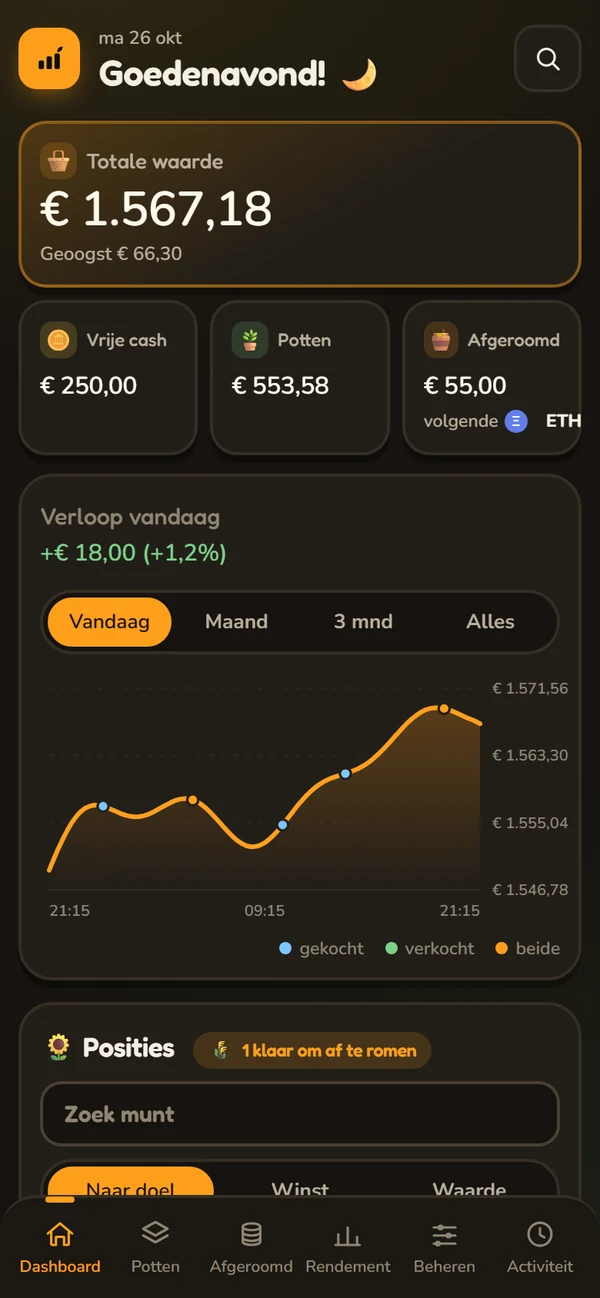
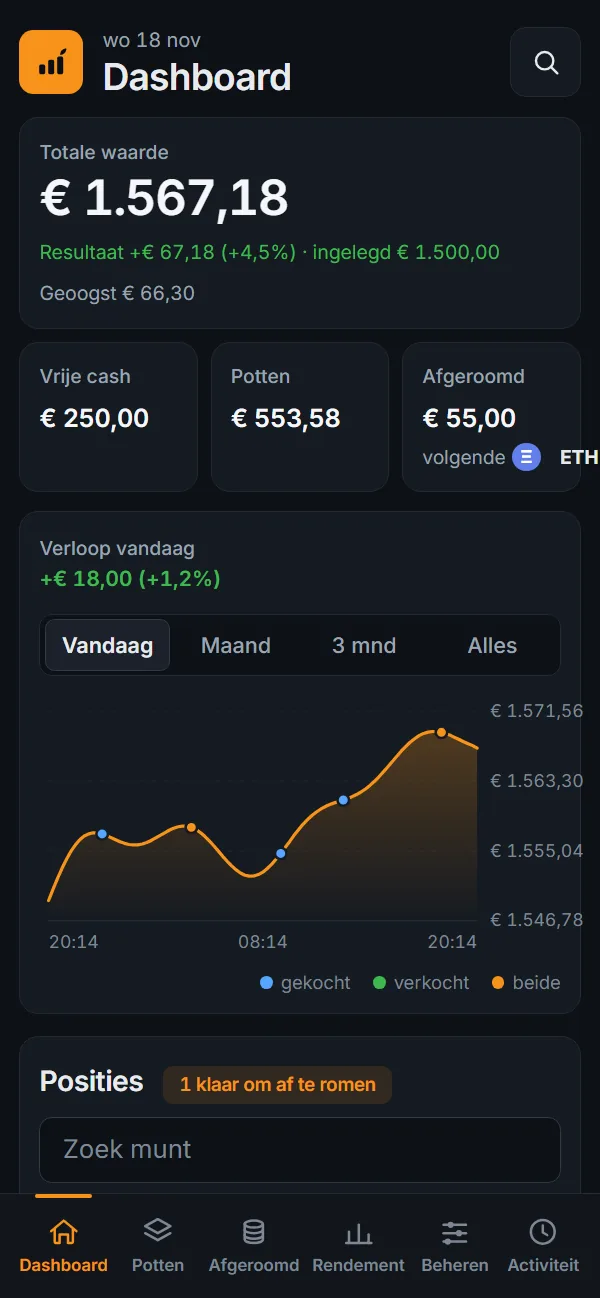
Site: zakelijke stijl zoals het dashboard (Inter, effen vlakken, één accentkleur), nieuwe schermafbeeldingen uit de demo

diff --git a/docs/index.html b/docs/index.html
@@ -6,8 +6,8 @@
 <meta name="color-scheme" content="dark light">
 <title>Profit Harvester: gratis Bitvavo-bot die alleen je winst oogst</title>
 <meta name="description" content="Gratis, open-source tradingbot voor Bitvavo. Laat je munten staan en verkoopt automatisch alleen de winst. Met dashboard, Telegram, demo-modus en een reserve die je zelf verdeelt over BTC, ETH, BNB, SOL en XRP.">
-<meta name="theme-color" content="#16130F" media="(prefers-color-scheme: dark)">
-<meta name="theme-color" content="#FFF7E8" media="(prefers-color-scheme: light)">
+<meta name="theme-color" content="#0E1116" media="(prefers-color-scheme: dark)">
+<meta name="theme-color" content="#F5F6F8" media="(prefers-color-scheme: light)">
 <link rel="icon" href="img/favicon.svg" type="image/svg+xml">
 <link rel="icon" href="img/icon-192.png" sizes="192x192">
 <link rel="apple-touch-icon" href="img/icon-180.png">
@@ -22,68 +22,70 @@
 </script>
 <link rel="preconnect" href="https://fonts.googleapis.com">
 <link rel="preconnect" href="https://fonts.gstatic.com" crossorigin>
-<link href="https://fonts.googleapis.com/css2?family=Fredoka:wght@500;600&family=Nunito:wght@400;600;700;800&display=swap" rel="stylesheet">
+<link href="https://fonts.googleapis.com/css2?family=Inter:wght@400;500;600;700&display=swap" rel="stylesheet">
 <style>
-/* Moestuin: dezelfde kleuren en letters als het dashboard van de bot. */
+/* Zakelijk: dezelfde kleuren en letters als het dashboard van de bot. */
 :root {
-  --grond:     #16130F;   /* potgrond: achtergrond */
-  --vak:       #221E18;   /* vlakken */
-  --vak2:      #2C271F;
-  --rand:      #352E25;
-  --rand2:     #4A4033;
-  --tekst:     #F5EFE4;
-  --zacht:     #B9AE9C;
-  --stil:      #8F8574;
-  --zon:       #FF9F1C;   /* accent */
-  --zon-zacht: rgba(255,159,28,.15);
-  --blad:      #7BD389;   /* plus, groei */
-  --blad-zacht: rgba(123,211,137,.15);
-  --bes:       #FF8A80;   /* min, risico */
-  --lucht:     #7CC6FE;
-  --plank:     #8A5A32;   /* hout van de bakken */
-  --plank-licht: #A87444;
-  --op-zon:    #1E1405;   /* tekst op oranje */
-  --kop:       'Fredoka', 'Nunito', system-ui, sans-serif;
-  --romp:      'Nunito', system-ui, -apple-system, sans-serif;
+  --grond:     #0E1116;
+  --vak:       #151A21;
+  --vak2:      #1B2129;
+  --rand:      #232A33;
+  --rand2:     #303945;
+  --tekst:     #E7EAEE;
+  --zacht:     #9AA4B1;
+  --stil:      #7D8794;
+  --zon:       #F7931A;
+  --zon-zacht: rgba(247,147,26,.12);
+  --blad:      #3FB950;
+  --blad-zacht: rgba(63,185,80,.12);
+  --bes:       #F0706A;
+  --lucht:     #58A6FF;
+  --plank:     #303945;
+  --plank-licht: #303945;
+  --op-zon:    #14100A;
+  --kop:       'Inter', system-ui, -apple-system, 'Segoe UI', sans-serif;
+  --romp:      'Inter', system-ui, -apple-system, 'Segoe UI', sans-serif;
   --code:      ui-monospace, 'Cascadia Mono', Consolas, monospace;
 }
 @media (prefers-color-scheme: light) {
   :root:not([data-thema="donker"]) {
-    --grond:     #FFF7E8;
+    --grond:     #F5F6F8;
     --vak:       #FFFFFF;
-    --vak2:      #FFF1D6;
-    --rand:      #F0E2C6;
-    --rand2:     #E2CFA8;
-    --tekst:     #3A2E1F;
-    --zacht:     #6E5F4B;
-    --stil:      #8A7A63;
-    --zon:       #E07F00;
-    --zon-zacht: rgba(255,159,28,.18);
-    --blad:      #2F9447;
-    --blad-zacht: rgba(47,148,71,.12);
-    --bes:       #D64535;
-    --lucht:     #2C7FC0;
-    --plank:     #B07A47;
-    --plank-licht: #C99460;
+    --vak2:      #F0F2F5;
+    --rand:      #E3E6EB;
+    --rand2:     #CDD3DB;
+    --tekst:     #161B22;
+    --zacht:     #57606A;
+    --stil:      #6E7781;
+    --zon:       #D97706;
+    --zon-zacht: rgba(217,119,6,.10);
+    --blad:      #1A7F37;
+    --blad-zacht: rgba(26,127,55,.08);
+    --bes:       #CF222E;
+    --lucht:     #0969DA;
+    --plank:     #CDD3DB;
+    --plank-licht: #CDD3DB;
+    --op-zon:    #FFFFFF;
   }
 }
 :root[data-thema="licht"] {
-    --grond:     #FFF7E8;
+    --grond:     #F5F6F8;
     --vak:       #FFFFFF;
-    --vak2:      #FFF1D6;
-    --rand:      #F0E2C6;
-    --rand2:     #E2CFA8;
-    --tekst:     #3A2E1F;
-    --zacht:     #6E5F4B;
-    --stil:      #8A7A63;
-    --zon:       #E07F00;
-    --zon-zacht: rgba(255,159,28,.18);
-    --blad:      #2F9447;
-    --blad-zacht: rgba(47,148,71,.12);
-    --bes:       #D64535;
-    --lucht:     #2C7FC0;
-    --plank:     #B07A47;
-    --plank-licht: #C99460;
+    --vak2:      #F0F2F5;
+    --rand:      #E3E6EB;
+    --rand2:     #CDD3DB;
+    --tekst:     #161B22;
+    --zacht:     #57606A;
+    --stil:      #6E7781;
+    --zon:       #D97706;
+    --zon-zacht: rgba(217,119,6,.10);
+    --blad:      #1A7F37;
+    --blad-zacht: rgba(26,127,55,.08);
+    --bes:       #CF222E;
+    --lucht:     #0969DA;
+    --plank:     #CDD3DB;
+    --plank-licht: #CDD3DB;
+    --op-zon:    #FFFFFF;
 }
 
 * { box-sizing: border-box; margin: 0; padding: 0; }
@@ -322,6 +324,45 @@ footer a { color: var(--zacht); }
   .nav .knop.klein span { display: none; }
   .nav .knop.klein { padding: 7px 11px; }
 }
+
+/* ---------- zakelijke stijl: effen, rustig, één accentkleur ---------- */
+body { font-size: 16px; line-height: 1.65; }
+b, strong { font-weight: 600; }
+h1, h2, h3 { font-weight: 600; letter-spacing: -0.025em; }
+.opening h1 { font-weight: 700; letter-spacing: -0.035em; }
+.nav { background: var(--grond); backdrop-filter: none; -webkit-backdrop-filter: none; }
+.nav ul a, .knop, .speel, .segment label, .keuze legend, .budget label, .risico, .oogstbak span, .schermen figcaption, .adres button { font-weight: 500; }
+.knop, .speel, .adres button { border-radius: 8px; border-width: 1px; }
+.knop.hoofd, .speel { font-weight: 600; }
+.knop.hoofd:hover, .speel:hover { background: var(--zon); border-color: var(--zon); filter: brightness(1.08); }
+.segment { border-radius: 8px; border-width: 1px; }
+.segment label { border-radius: 6px; }
+.feitjes li::before { border-radius: 50%; width: 6px; height: 6px; transform: none; background: var(--zacht); }
+.bak, .kas, .installeer li, .adressen div { border-radius: 12px; border-width: 1px; }
+.bak::after { content: none; }
+.bak { padding-bottom: 18px; }
+.grafiek { border-radius: 8px; }
+.stappen li::before { border-width: 1px; font-size: 0.95rem; width: 32px; height: 32px; }
+.stappen li { padding-top: 46px; }
+.stappen li:not(:last-child)::after { top: 16px; left: 44px; border-top: 1px solid var(--rand); }
+.moestuinbak { border: 1px solid var(--rand); border-radius: 12px; box-shadow: none; }
+.vakje + .vakje { border-left: 1px solid var(--rand); }
+.vakje h3 { font-size: 1.3rem; }
+.vakje li::marker { color: var(--stil); }
+.schuur div { border-top: 1px solid var(--rand); }
+.schermen img, .laptop { border-radius: 12px; border-width: 1px; }
+.oefenen { border-radius: 12px; border: 1px solid var(--rand); background: var(--vak); }
+.veilig svg { border-radius: 8px; color: var(--zacht); background: var(--vak2); }
+.installeer h3::before { width: 28px; height: 28px; font-size: 0.9rem; border-radius: 6px; }
+details { border-bottom: 1px solid var(--rand); }
+details summary { font-size: 1.05rem; font-weight: 500; }
+details summary::after { border-width: 0 2px 2px 0; width: 9px; height: 9px; border-color: var(--zacht); }
+.letop { border-left-width: 3px; border-radius: 0 12px 12px 0; }
+.oogstbak div { border-left-width: 2px; }
+.oogstbak b, .budget output { font-variant-numeric: tabular-nums; font-weight: 600; }
+.grafiek .label, .grafiek .label-zaad, .grafiek .label-glas, .grafiek .oogst text { font-family: var(--romp); font-weight: 500; }
+@media (max-width: 960px) { .vakje + .vakje { border-left: 0; border-top: 1px solid var(--rand); } }
+@media (prefers-reduced-motion: reduce) { *, *::before, *::after { transition: none !important; animation: none !important; } }
 </style>
 </head>
 <body>
@@ -376,7 +417,7 @@ footer a { color: var(--zacht); }
 
     <figure class="bak">
       <svg class="oogstplaat" viewBox="0 20 560 270" role="img" aria-label="Eén oogst: de waarde van een munt stijgt van het budget van €250 tot boven het doel van €11 winst, de bot volgt de top, en bij 1% terugval verkoopt hij alleen de winst. Het budget van €250 blijft staan.">
-        <g font-family="Nunito, system-ui, sans-serif">
+        <g font-family="Inter, system-ui, sans-serif">
           <rect class="grond" x="0" y="215" width="560" height="80"/>
           <line class="l-budget" x1="0" y1="215" x2="560" y2="215" stroke-width="2"/>
           <text class="t-budget" x="20" y="244" font-size="17" font-weight="800">Budget €250</text>
@@ -457,7 +498,7 @@ footer a { color: var(--zacht); }
     </div>
     <p class="verloop" id="verloop">Druk op <strong>Speel drie maanden af</strong>.</p>
     <p class="eerlijk">De koersen hier zijn verzonnen. Dit laat zien hoe de bot werkt, niet wat hij gaat opleveren.
-      Liever op een hele pagina? <a href="proef/">Open de kas los</a>.</p>
+      Liever op een hele pagina? <a href="proef/">Open de simulator los</a>.</p>
     </div>
   </div>
 </section>
@@ -465,7 +506,7 @@ footer a { color: var(--zacht); }
 <!-- ===================== FUNCTIES ===================== -->
 <section id="functies">
   <div class="wrap">
-    <h2>Drie bakken in één moestuin</h2>
+    <h2>Drie onderdelen, drie risiconiveaus</h2>
     <p class="inleiding">Kies zelf hoeveel risico je neemt. De hoofdlijst is rustig; in de pot en de dalpot handelt de
       bot zelf, alleen met het geld dat jij erin stort.</p>
 
@@ -503,8 +544,8 @@ footer a { color: var(--zacht); }
       </div>
     </div>
 
-    <h2 style="margin-top:72px">In de schuur</h2>
-    <p class="inleiding">Alles wat je verder nodig hebt om de tuin bij te houden.</p>
+    <h2 style="margin-top:72px">Alle functies</h2>
+    <p class="inleiding">Alles wat je verder nodig hebt om de bot te volgen en te beheren.</p>
     <div class="schuur">
       <div>
         <h3>Afgeroomd: je reserve verdelen</h3>
@@ -752,7 +793,7 @@ nano .env   <span class="c"># vul minimaal DASHBOARD_TOKEN in</span></pre>
       tekst.textContent = naar === "licht" ? "Licht" : "Donker";
       knop.setAttribute("aria-label", naar === "licht" ? "Wissel naar licht" : "Wissel naar donker");
       document.querySelectorAll('meta[name="theme-color"]').forEach(function (m) {
-        m.setAttribute("content", huidig() === "licht" ? "#FFF7E8" : "#16130F");
+        m.setAttribute("content", huidig() === "licht" ? "#F5F6F8" : "#0E1116");
       });
     }
     knop.addEventListener("click", function () {

diff --git a/docs/proef/index.html b/docs/proef/index.html
@@ -5,27 +5,27 @@
 <meta name="viewport" content="width=device-width, initial-scale=1.0">
 <meta name="color-scheme" content="dark">
 <title>Profit Harvester: probeer het zelf</title>
-<meta name="description" content="Zet een munt in de kas en kijk wat Profit Harvester doet: de top volgen, alleen de winst oogsten en je budget laten staan. Met verzonnen koersen.">
-<meta name="theme-color" content="#123524">
+<meta name="description" content="Kies een munt en kijk wat Profit Harvester doet: de top volgen, alleen de winst oogsten en je budget laten staan. Met verzonnen koersen.">
+<meta name="theme-color" content="#0E1116">
 <link rel="icon" href="../img/favicon.svg" type="image/svg+xml">
 <link rel="preconnect" href="https://fonts.googleapis.com">
 <link rel="preconnect" href="https://fonts.gstatic.com" crossorigin>
-<link href="https://fonts.googleapis.com/css2?family=Atkinson+Hyperlegible:wght@400;700&family=Bricolage+Grotesque:opsz,wght@12..96,500;12..96,700;12..96,800&display=swap" rel="stylesheet">
+<link href="https://fonts.googleapis.com/css2?family=Inter:wght@400;500;600;700&display=swap" rel="stylesheet">
 <style>
-/* Kas: glas, blad en zaad. */
+/* Zakelijk: dezelfde kleuren als de hoofdpagina. */
 :root {
-  --kas:     #123524;   /* achtergrond */
-  --mos:     #1F4D36;   /* vlakken */
-  --mos2:    #2A6146;
-  --nerf:    #3F7A5C;   /* lijnen */
-  --kalk:    #EEF3E8;   /* tekst */
-  --dauw:    #B9CDBF;   /* zachte tekst */
-  --zaad:    #F2C14E;   /* oogst, accent */
-  --tomaat:  #FF7A57;   /* min */
-  --glas:    #9CC9C2;   /* budgetlijn */
-  --op-zaad: #1C1A06;
-  --kop:  'Bricolage Grotesque', system-ui, sans-serif;
-  --romp: 'Atkinson Hyperlegible', system-ui, sans-serif;
+  --kas:     #0E1116;
+  --mos:     #151A21;
+  --mos2:    #232A33;
+  --nerf:    #303945;
+  --kalk:    #E7EAEE;
+  --dauw:    #9AA4B1;
+  --zaad:    #F7931A;
+  --tomaat:  #F0706A;
+  --glas:    #7D8794;
+  --op-zaad: #14100A;
+  --kop:  'Inter', system-ui, -apple-system, 'Segoe UI', sans-serif;
+  --romp: 'Inter', system-ui, -apple-system, 'Segoe UI', sans-serif;
 }
 * { box-sizing: border-box; margin: 0; padding: 0; }
 body { background: var(--kas); color: var(--kalk); font-family: var(--romp); font-size: 17px; line-height: 1.6; -webkit-font-smoothing: antialiased; }
@@ -88,7 +88,7 @@ h1, h2, h3 { font-family: var(--kop); line-height: 1.05; }
 .verloop strong { color: var(--kalk); }
 .eerlijk { margin-top: 10px; font-size: 0.88rem; color: var(--dauw); opacity: .85; }
 
-/* ---------- onder de kas ---------- */
+/* ---------- onder de simulator ---------- */
 .blok { padding: 84px 0 0; }
 .blok h2 { font-size: clamp(1.8rem, 4vw, 2.8rem); font-weight: 800; letter-spacing: -0.02em; max-width: 20ch; margin-bottom: 26px; }
 .drie { display: grid; grid-template-columns: repeat(3, minmax(0, 1fr)); gap: 36px; }
@@ -120,6 +120,27 @@ footer a { color: var(--dauw); }
   .drie { grid-template-columns: 1fr; gap: 26px; }
   .blok { padding-top: 60px; }
 }
+
+/* ---------- zakelijke stijl ---------- */
+body { font-size: 16px; }
+.opening h1 { font-weight: 700; }
+.blok h2, .drie h3 { font-weight: 600; }
+.balk nav a, .keuze legend, .budget label, .segment label, .oogstbak span { font-weight: 500; }
+.kas { border-radius: 12px; }
+.segment { border-radius: 8px; } .segment label { border-radius: 6px; }
+.segment input:checked + label { background: var(--zaad); color: var(--op-zaad); }
+.speel, .knop { border-radius: 8px; font-weight: 600; }
+.speel:hover { background: var(--zaad); filter: brightness(1.08); }
+.grafiek { border-radius: 8px; }
+.grafiek .waarde { stroke: var(--zaad); }
+.grafiek .doellijn { stroke: #3FB950; }
+.grafiek .label-zaad, .grafiek .oogst circle, .grafiek .oogst text { fill: #3FB950; }
+.oogstbak .geoogst { border-color: #3FB950; } .oogstbak .geoogst b { color: #3FB950; }
+.oogstbak b, .budget output { font-variant-numeric: tabular-nums; font-weight: 600; }
+.oogstbak div { border-left-width: 2px; }
+.nodig li::before { border-radius: 50%; width: 6px; height: 6px; margin-top: 10px; background: var(--dauw); }
+.risico { border-radius: 12px; }
+@media (prefers-reduced-motion: reduce) { *, *::before, *::after { transition: none !important; animation: none !important; } }
 </style>
 </head>
 <body>
@@ -135,7 +156,7 @@ footer a { color: var(--dauw); }
   </header>
 
   <section class="opening">
-    <h1>Zet een munt in de kas en kijk wat de bot doet.</h1>
+    <h1>Kies een munt en kijk wat de bot doet.</h1>
     <p>Profit Harvester laat je munt staan en oogst alleen wat erboven groeit. Kies hieronder een soort munt en een
       budget, en speel een paar maanden af.</p>
   </section>
